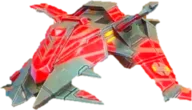
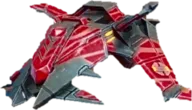
Grade the hand-cut art to the official renders' histogram
Replaces a hand-tuned global grade with a measured per-image pass that
matches black point, white point, midtone and chroma to the median of
the 9 official assets. Work is done in Lab so tone and colour move
independently; statistics are taken over opaque pixels only.

Raw captures now live in assets-src/racers-raw so the pass is
idempotent — grading in place had silently double-graded the vehicles,
which measured 41.6 chroma against a 19.5 target.

diff --git a/scripts/enhance-racer-art.py b/scripts/enhance-racer-art.py
@@ -1,0 +1,274 @@
+"""
+Grade hand-cut racer art to match the official renders.
+
+    python3 scripts/enhance-racer-art.py --report
+    python3 scripts/enhance-racer-art.py --apply Arthur_vehicle Natasha_headshot
+
+── Why this exists ────────────────────────────────────────────────────────────
+
+Art cut from gameplay video is hazy: video compression, atmospheric fog and the
+desert's warm bounce light all wash it out. Next to Beast and Rex — which are
+official renders with true blacks and deep reds — it reads as faded.
+
+The first attempt was one hand-tuned grade applied to everything
+(`-modulate 102,138 -sigmoidal-contrast 4,47%`). It helped, but it was a guess,
+and a guess applied uniformly to four images with four different problems.
+
+── Why the existing art is the reference ──────────────────────────────────────
+
+The 9 official assets already in assets-src define what "right" looks like for
+this project, so they are measured and used as the target rather than any
+absolute ideal. That makes this a matching operation with a real answer, not a
+taste call: a new image is done when its black point, white point, tonal spread
+and chroma sit where the official art's do.
+
+── Why Lab and not RGB ────────────────────────────────────────────────────────
+
+Stretching RGB channels independently is what makes auto-levels shift colour —
+a red-dominated car has almost nothing in the blue channel, so normalising blue
+to the same range invents a blue cast. In Lab, lightness is one axis and colour
+is the other two, so tone can be stretched without touching hue, and chroma can
+be scaled without touching brightness.
+
+── Why raw and graded live in separate folders ────────────────────────────────
+
+    assets-src/racers-raw/   hand-cut captures, untouched          ← input
+    assets-src/racers/       official art + graded captures        ← output
+                                    ↓ scripts/build-racer-art.mjs
+    apps/web/src/assets/racers/*.webp
+
+Grading in place was tried and it is a trap: a second run grades the already
+graded file. That happened, and it was not obvious from looking — the result was
+merely too saturated, not broken. It showed up only as a number, when a vehicle
+measured 41.6 chroma against a 19.5 target. Reading from an input that is never
+written to makes the pass idempotent, so re-running it is always safe.
+
+── Why every adjustment is clamped ────────────────────────────────────────────
+
+The statistics come from whatever pixels an image happens to contain. A car that
+is genuinely darker than the reference average is not a defect to be corrected
+into oblivion, so each correction has a ceiling. Clamps that bind are printed,
+because a correction silently pinned at its limit means the measurement was not
+describing what I assumed.
+"""
+import argparse
+import sys
+from pathlib import Path
+
+import cv2
+import numpy as np
+
+ROOT = Path(__file__).resolve().parent.parent
+# Official art, AND where graded output lands — this is what build-racer-art.mjs reads.
+SRC = ROOT / "assets-src" / "racers"
+# Untouched hand-cut captures. Never written to.
+RAW = ROOT / "assets-src" / "racers-raw"
+
+# The official renders. Everything else gets matched to these.
+REFERENCE = ["Beast", "Dee", "Driftking", "Hotty", "Rex", "Turboboy", "Twins", "UFO", "tailfin"]
+
+# Ceilings, deliberately conservative. See the module docstring.
+MAX_CHROMA_GAIN = 1.55
+MAX_STRETCH = 2.2
+CAST_STRENGTH = 0.8      # how much of the measured colour cast to remove
+CLARITY_AMOUNT = 0.35
+CLARITY_RADIUS = 3.0
+
+
+def load(path: Path):
+    """BGRA → float32 Lab plus an opaque-pixel mask."""
+    img = cv2.imread(str(path), cv2.IMREAD_UNCHANGED)
+    if img is None:
+        raise SystemExit(f"cannot read {path}")
+    if img.shape[2] == 3:
+        img = np.dstack([img, np.full(img.shape[:2], 255, np.uint8)])
+    bgr = img[:, :, :3].astype(np.float32) / 255.0
+    alpha = img[:, :, 3]
+    lab = cv2.cvtColor(bgr, cv2.COLOR_BGR2LAB)
+    return lab, alpha, (alpha > 128)
+
+
+def stats(lab: np.ndarray, opaque: np.ndarray) -> dict:
+    """
+    Describe an image's tone and colour.
+
+    Measured over OPAQUE pixels only. This is not a detail: a cut-out vehicle is
+    ~60% transparent, and transparent pixels carry whatever BGR happened to sit
+    under them. Including them makes every number describe the discarded
+    background as much as the subject.
+    """
+    L = lab[:, :, 0][opaque]
+    a = lab[:, :, 1][opaque]
+    b = lab[:, :, 2][opaque]
+    chroma = np.hypot(a, b)
+    # "Neutral" pixels are where a colour cast is visible as a cast rather than
+    # as the subject's own colour, so the cast is estimated from those alone.
+    neutral = chroma < 12
+    return {
+        "n": int(opaque.sum()),
+        "L_lo": float(np.percentile(L, 0.5)),
+        "L_med": float(np.percentile(L, 50)),
+        "L_hi": float(np.percentile(L, 99.5)),
+        "L_std": float(L.std()),
+        "chroma": float(chroma.mean()),
+        "cast_a": float(a[neutral].mean()) if neutral.sum() > 50 else 0.0,
+        "cast_b": float(b[neutral].mean()) if neutral.sum() > 50 else 0.0,
+        "neutral_frac": float(neutral.mean()),
+    }
+
+
+def reference(kind: str) -> dict:
+    """Pooled statistics for one kind of asset across all the official art."""
+    rows = []
+    for name in REFERENCE:
+        path = SRC / f"{name}_{kind}.png"
+        if not path.exists():
+            continue
+        lab, _, opaque = load(path)
+        rows.append(stats(lab, opaque))
+    if not rows:
+        raise SystemExit(f"no reference art found for kind={kind}")
+    # Median across images, not mean: one unusually dark render shouldn't set
+    # the target for everything else.
+    return {k: float(np.median([r[k] for r in rows])) for k in rows[0] if k != "n"} | {
+        "images": len(rows)
+    }
+
+
+def enhance(lab: np.ndarray, opaque: np.ndarray, ref: dict, notes: list) -> np.ndarray:
+    src = stats(lab, opaque)
+    out = lab.copy()
+    L, a, b = out[:, :, 0], out[:, :, 1], out[:, :, 2]
+
+    # 1. Neutralise the colour cast, by shifting the a/b of near-neutral pixels
+    #    toward 0. The desert bounce light is the reason grey rollcages read
+    #    olive; correcting it here is why the chroma boost in step 4 can then
+    #    deepen colour rather than deepen the cast.
+    if src["neutral_frac"] > 0.02:
+        a -= CAST_STRENGTH * (src["cast_a"] - ref["cast_a"])
+        b -= CAST_STRENGTH * (src["cast_b"] - ref["cast_b"])
+    else:
+        notes.append("no neutral pixels to estimate cast from — skipped WB")
+
+    # 2. Clarity: local contrast on lightness only. Video softening is the last
+    #    thing separating these from the crisp renders.
+    #
+    #    Deliberately BEFORE the levels pass. Unsharp masking overshoots on both
+    #    sides of an edge, so running it last drove the darkest pixels below the
+    #    black point I had just set — every image reported a black point of 0.0
+    #    instead of the reference's 1.8, and shadow detail was being clipped away
+    #    after the work to place it. Levels last means the endpoints are exact.
+    blur = cv2.GaussianBlur(L, (0, 0), CLARITY_RADIUS)
+    L[:] = L + CLARITY_AMOUNT * (L - blur)
+
+    # 3. Black and white point. Video-captured art never reaches true black, so
+    #    this is the adjustment that does most of the visible work.
+    now = stats(out, opaque)
+    span_src = max(now["L_hi"] - now["L_lo"], 1e-3)
+    stretch = (ref["L_hi"] - ref["L_lo"]) / span_src
+    if stretch > MAX_STRETCH:
+        notes.append(f"stretch CLAMPED {stretch:.2f}→{MAX_STRETCH}")
+        stretch = MAX_STRETCH
+    L[:] = (L - now["L_lo"]) * stretch + ref["L_lo"]
+
+    # 4. Gamma so the midtone lands where the reference's does. Levels alone fix
+    #    the endpoints and leave the middle wherever it fell.
+    lo, hi = ref["L_lo"], ref["L_hi"]
+    norm = np.clip((L - lo) / max(hi - lo, 1e-3), 0, 1)
+    med_now = np.clip((np.percentile(L[opaque], 50) - lo) / max(hi - lo, 1e-3), 1e-3, 0.999)
+    med_ref = np.clip((ref["L_med"] - lo) / max(hi - lo, 1e-3), 1e-3, 0.999)
+    gamma_want = np.log(med_ref) / np.log(med_now)
+    gamma = float(np.clip(gamma_want, 0.6, 1.7))
+    if abs(gamma - gamma_want) > 0.01:
+        notes.append(f"gamma CLAMPED {gamma_want:.2f}→{gamma:.2f} "
+                     f"(midtone will land above target)")
+    L[:] = np.power(norm, gamma) * (hi - lo) + lo
+
+    # 5. Chroma. Scaling a and b together is a saturation change that leaves hue
+    #    alone, which `-modulate`'s HSL saturation does not — that one pushes
+    #    already-vivid reds until they clip, and clipped red loses its shading.
+    have = stats(out, opaque)["chroma"]
+    gain_want = ref["chroma"] / max(have, 1e-3)
+    gain = min(gain_want, MAX_CHROMA_GAIN)
+    if gain_want > MAX_CHROMA_GAIN:
+        notes.append(f"chroma gain CLAMPED {gain_want:.2f}→{MAX_CHROMA_GAIN}")
+    if gain < 1.0:
+        # The reference chroma is a median across nine vehicles, several of them
+        # largely black. A genuinely vivid car sits above it legitimately, and
+        # dragging it down to the average would be matching the wrong thing.
+        notes.append(f"already above target chroma (would be {gain_want:.2f}) — left alone")
+        gain = 1.0
+    a *= gain
+    b *= gain
+
+    np.clip(L, 0, 100, out=L)
+    np.clip(a, -127, 127, out=a)
+    np.clip(b, -127, 127, out=b)
+    return out
+
+
+def write(lab: np.ndarray, alpha: np.ndarray, path: Path):
+    bgr = np.clip(cv2.cvtColor(lab, cv2.COLOR_LAB2BGR), 0, 1)
+    cv2.imwrite(str(path), np.dstack([(bgr * 255).round().astype(np.uint8), alpha]))
+
+
+def row(label: str, s: dict) -> str:
+    return (f"  {label:22s} black {s['L_lo']:5.1f}  mid {s['L_med']:5.1f}  "
+            f"white {s['L_hi']:5.1f}  spread {s['L_std']:5.1f}  "
+            f"chroma {s['chroma']:5.1f}  cast a{s['cast_a']:+5.1f} b{s['cast_b']:+5.1f}")
+
+
+def main():
+    ap = argparse.ArgumentParser()
+    ap.add_argument("names", nargs="*", help="e.g. Arthur_vehicle (default: everything in racers-raw)")
+    ap.add_argument("--apply", action="store_true", help="write the files, not just measure")
+    ap.add_argument("--out", default=None, help=f"where to write (default: {SRC})")
+    args = ap.parse_args()
+
+    if not RAW.exists():
+        raise SystemExit(f"no raw captures at {RAW}")
+    targets = args.names or sorted(p.stem for p in RAW.glob("*.png"))
+
+    refs = {}
+    for kind in ("portrait", "headshot", "vehicle"):
+        # Head-shots are matched against the official PORTRAITS: different
+        # framing, same question — does this look like it belongs here.
+        refs[kind] = reference("portrait" if kind == "headshot" else kind)
+
+    for kind in ("portrait", "vehicle"):
+        print(f"\nREFERENCE  {kind}  ({refs[kind]['images']} official assets, median)")
+        print(row(kind, refs[kind]))
+
+    out_dir = Path(args.out) if args.out else SRC
+    out_dir.mkdir(parents=True, exist_ok=True)
+
+    print()
+    for stem in targets:
+        kind = stem.rsplit("_", 1)[-1]
+        if kind not in refs:
+            print(f"  {stem}: unknown kind '{kind}', skipped")
+            continue
+        path = RAW / f"{stem}.png"
+        lab, alpha, opaque = load(path)
+        before = stats(lab, opaque)
+        notes: list = []
+        graded = enhance(lab, opaque, refs[kind], notes)
+        after = stats(graded, opaque)
+
+        print(f"{stem}   ({before['n']:,} opaque px)")
+        print(row("before", before))
+        print(row("after", after))
+        print(row("target", refs[kind]))
+        for n in notes:
+            print(f"    note: {n}")
+        if args.apply:
+            write(graded, alpha, out_dir / f"{stem}.png")
+            print(f"    written → {out_dir / f'{stem}.png'}")
+        print()
+
+    if not args.apply:
+        print("Measure-only. Re-run with --apply to write.", file=sys.stderr)
+
+
+if __name__ == "__main__":
+    main()
